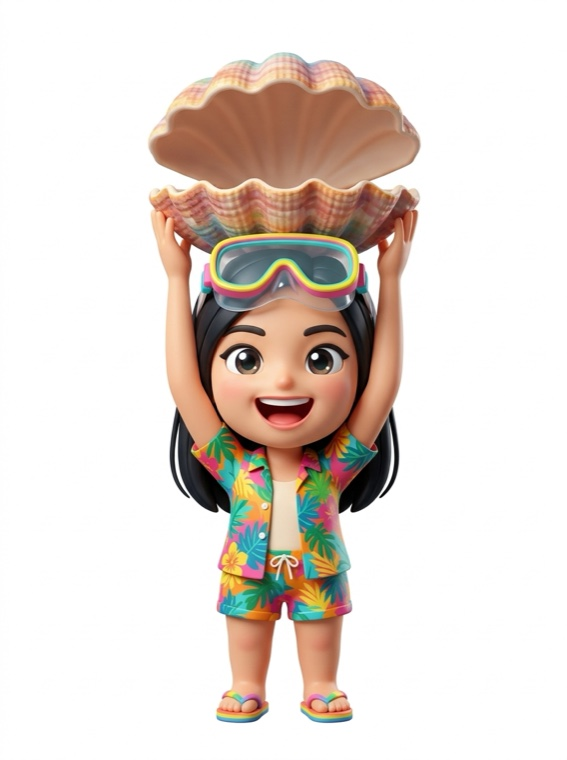
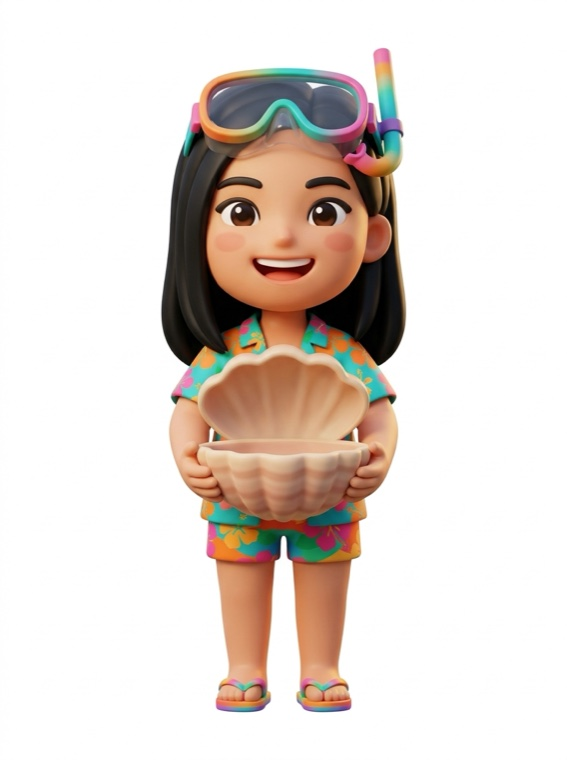
Catch & Win: character holds the basket at chest height with natural proportions
- gen-worker catch_* prompt: basket in front of the chest, normal-length arms (deployed)
- New sample characters; catch zone moved to chest height
- Version the sample-photo AI cache so prompt changes are not masked by old cached images

Changed region(s): [[0.2399, 0.0605, 0.7496, 0.9684]]

diff --git a/web/assets/ai.js b/web/assets/ai.js
@@ -7,6 +7,7 @@ import { makeCanvas, drawCover, seeded, wrapText, loadImage } from './common.js'
 import { GEN_API } from './config.js';
 
 export const AI_ON = !!GEN_API;
+const CACHE_V = 'v2';
 
 function photoB64(photo) {
   const s = Math.min(1, 1024 / Math.max(photo.width, photo.height));
@@ -47,7 +48,8 @@ async function toCanvas(src) {
 /** -> { canvas, url } (url = 24 h share link of the AI image) or null on any failure */
 export async function aiGenerate(photo, style, { variant = 0, timeout = 90000 } = {}) {
   if (!GEN_API) return null;
-  const cacheKey = photo.dataset?.sample ? `sample:${style}:${variant}` : null;
+  // bump CACHE_V whenever worker prompts change, so stale sample images are not reused
+  const cacheKey = photo.dataset?.sample ? `${CACHE_V}:sample:${style}:${variant}` : null;
   if (cacheKey) {
     const hit = await cacheGet(cacheKey);
     if (hit) return { canvas: await toCanvas(hit), url: null };

diff --git a/gen-worker/worker.js b/gen-worker/worker.js
@@ -129,7 +129,8 @@ export default {
     const prompt = s.catch
       ? 'Full-body cute chibi 3D cartoon character of the person in the photo (big head, small body), keep their face, skin tone and hairstyle recognizable. ' +
         `Wearing a ${s.outfit}. Standing and facing the camera, the whole body visible from head to shoes, ` +
-        `raising ${s.catch} high above their head with both hands, ready to catch falling things, happy excited expression. ` +
+        `holding ${s.catch} in front of their chest with both hands, its open top facing up, ready to catch falling things. ` +
+        'Natural body proportions with normal-length arms, happy excited expression. ' +
         'Isolated on a plain pure white background: no ground, no shadow, no scenery, no other objects, no border, no text, no logos, no flags or patches.'
       : BASE + s.prompt + pose;
     const reqBase = {

diff --git a/web/assets/catch.js b/web/assets/catch.js
@@ -55,8 +55,8 @@ function spriteHero(sprite) {
   return {
     ground: GH - 36, h,
     draw: (x, px, gy, bob) => x.drawImage(sprite, px - w / 2, gy - h + bob, w, h),
-    zone: (gy) => [gy - h, gy - h + h * 0.24], // the basket is held above the head
-    halfW: Math.min(w * 0.45, 95),
+    zone: (gy) => [gy - h * 0.6, gy - h * 0.44], // the basket is held at chest height (~40-56% down the figure)
+    halfW: Math.min(w * 0.42, 85),
     sprite,
   };
 }
